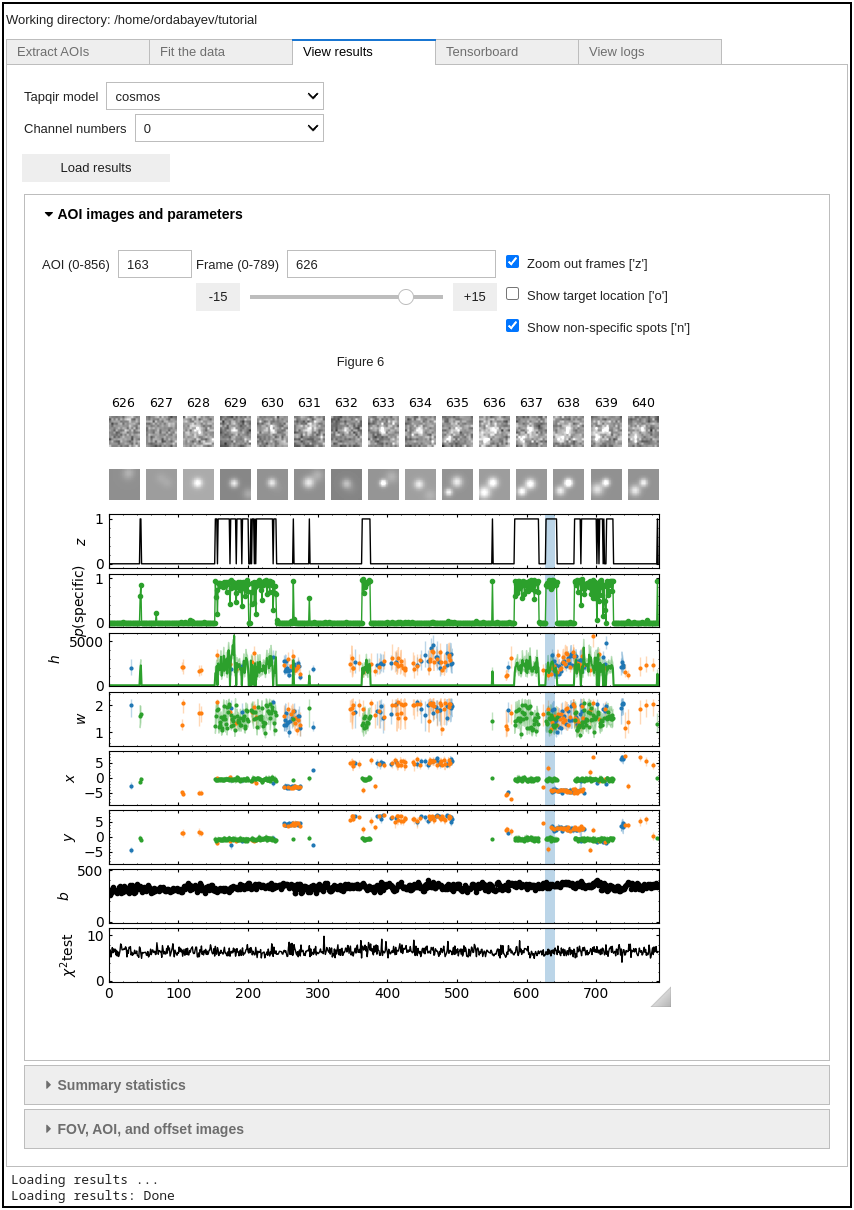
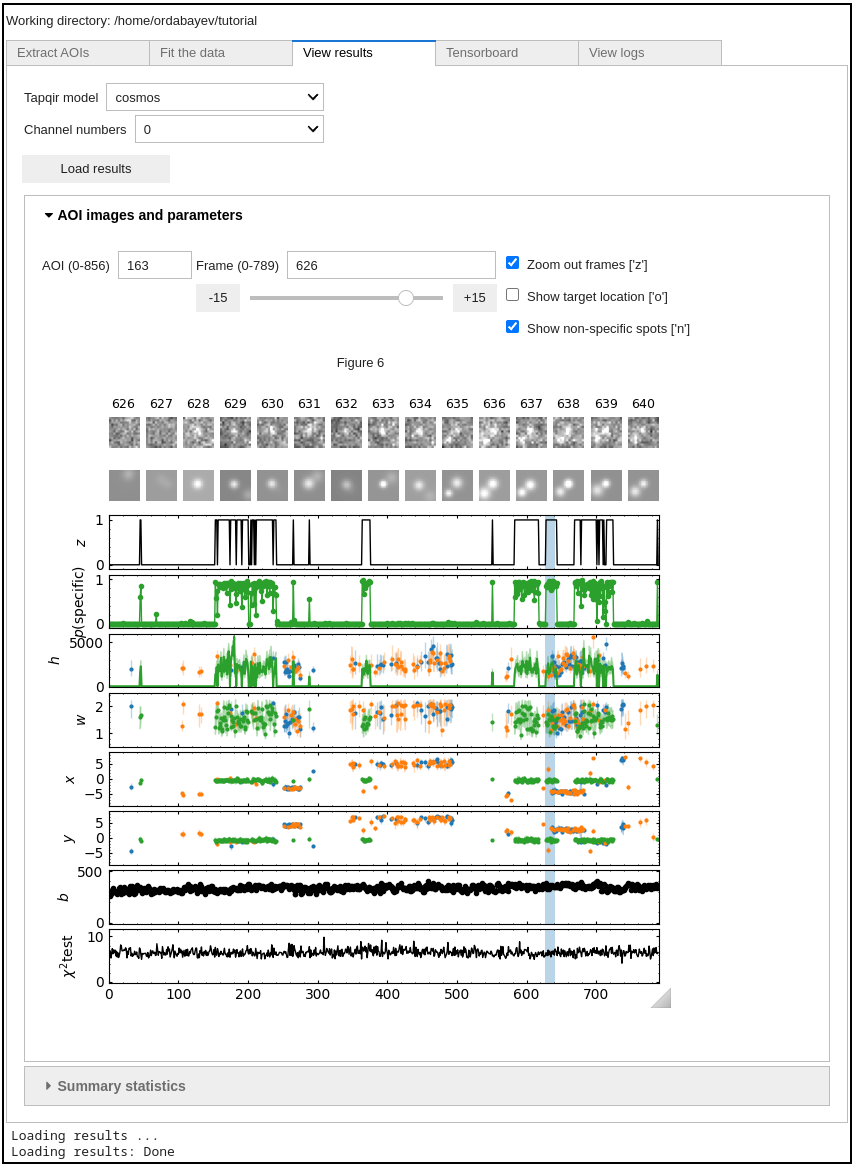
Diable load results button after the first click (#316)
* diable show load button after first click

* remove title

Changed region(s): [[0.0, 0.0, 0.9742, 1.0]]

diff --git a/tapqir/gui.py b/tapqir/gui.py
@@ -12,7 +12,7 @@ import matplotlib.pyplot as plt
 import torch
 from ipyevents import Event
 from ipyfilechooser import FileChooser
-from IPython.display import Image, display
+from IPython.display import display
 from tensorboard import notebook
 from tqdm import tqdm_notebook
 from traitlets.utils.bunch import Bunch
@@ -457,11 +457,9 @@ def showUI(out, DEFAULTS):
     view = widgets.Output()
     params = widgets.VBox(children=[controls, view])
     summary = widgets.Output()
-    fov = widgets.Output()
-    sum_view = widgets.Accordion(children=[params, summary, fov])
+    sum_view = widgets.Accordion(children=[params, summary])
     sum_view.set_title(0, "AOI images and parameters")
     sum_view.set_title(1, "Summary statistics")
-    sum_view.set_title(2, "FOV, AOI, and offset images")
     sum_view.selected_index = 0
     # Layout
     layout.children = [modelSelect, channelNumber, showParams, sum_view]
@@ -471,7 +469,7 @@ def showUI(out, DEFAULTS):
 
 
 def showCmd(b, layout, out):
-    params, summary, fov = layout.children[-1].children
+    params, summary = layout.children[-1].children
     controls, view = params.children
     with out:
         logger.info("Loading results ...")
@@ -487,16 +485,10 @@ def showCmd(b, layout, out):
             out.clear_output(wait=True)
             return
         model, fig, item, ax = show_ret
-    with summary:
-        display(model.summary)
     with view:
         plt.show()
-    with fov:
-        display(Image(filename=model.path / f"ontarget-channel{model.cdx}.png"))
-        display(Image(filename=model.path / f"offtarget-channel{model.cdx}.png"))
-        display(Image(filename=model.path / f"offset-channel{model.cdx}.png"))
-        display(Image(filename=model.path / "offset-distribution.png", width=500))
-        display(Image(filename=model.path / "offset-medians.png"))
+    with summary:
+        display(model.summary)
     n = widgets.BoundedIntText(
         value=0,
         min=0,
@@ -639,6 +631,7 @@ def showCmd(b, layout, out):
         logger.info("Loading results: Done")
 
     out.clear_output(wait=True)
+    b.disabled = True
 
 
 def onKeyPress(event, n, f1, zoom, targets, nonspecific):
